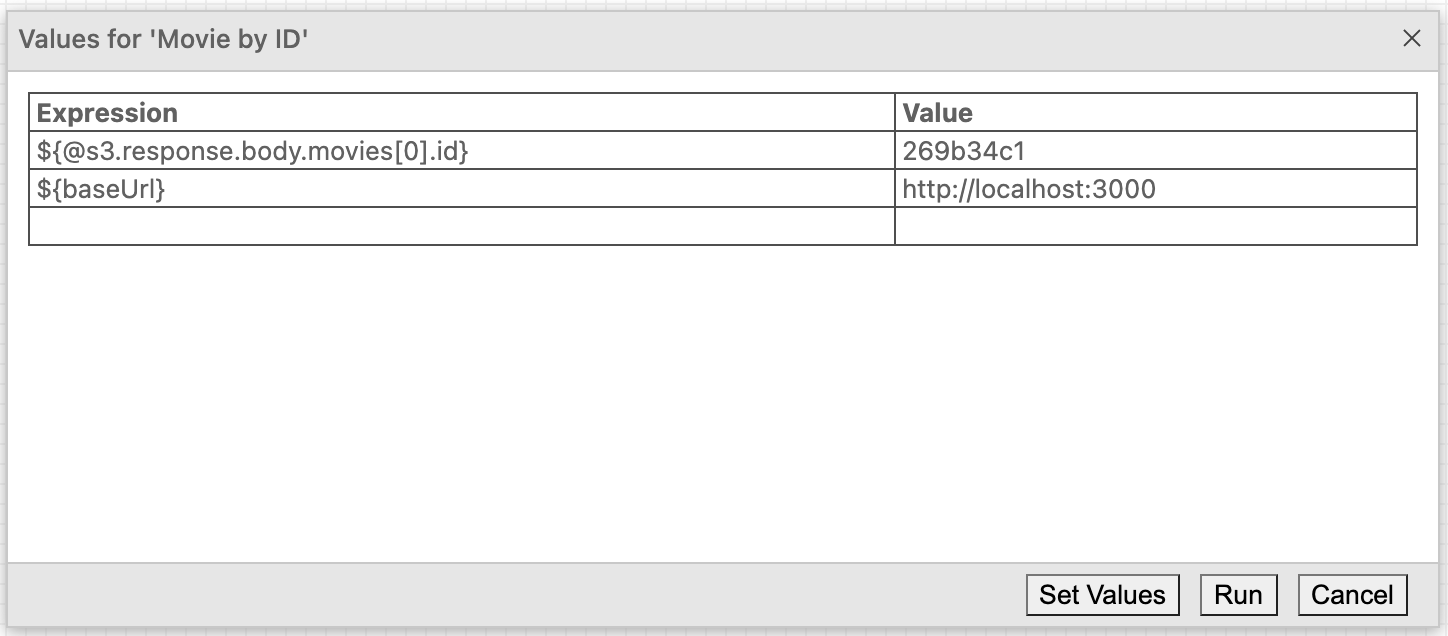
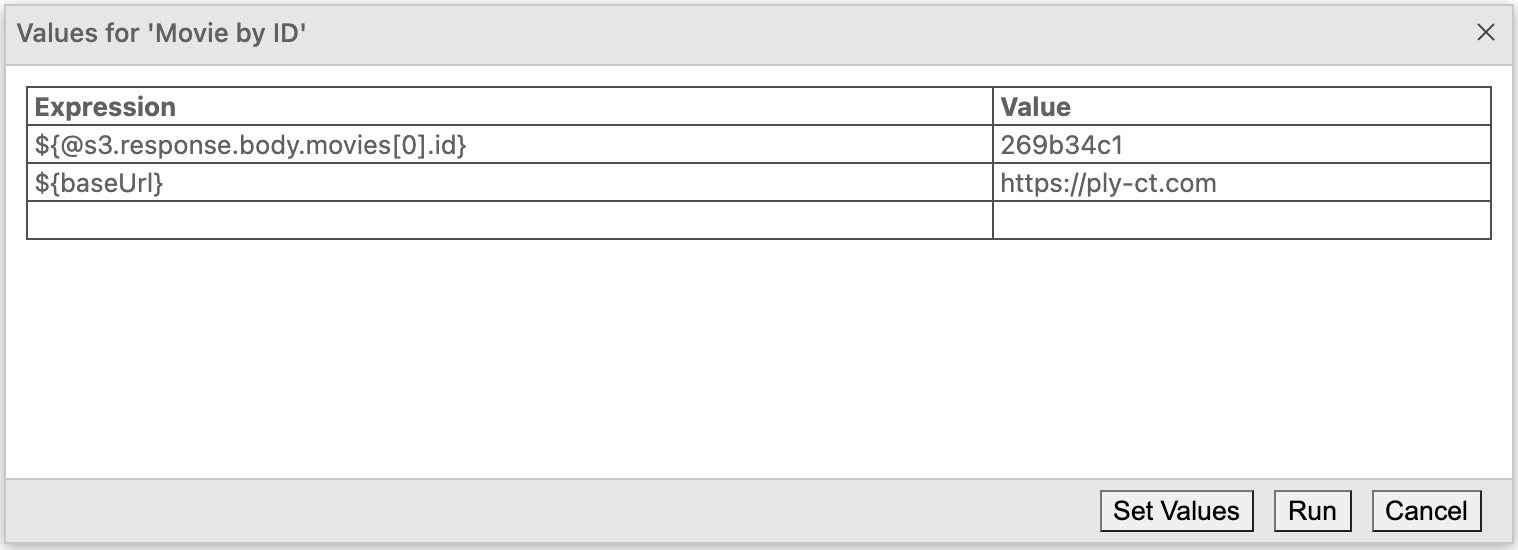
fix localhost screenshot

Changed region(s): [[0.0, 0.0, 1.0, 0.9891]]

diff --git a/docs/topics/quickstart.md b/docs/topics/quickstart.md
@@ -199,7 +199,7 @@ to test it without running the whole flow. Let's run the "Movie by ID" step that
 1. Right-click on "Movie by ID", and select Run.
 1. This time when you're prompted for values, you'll observe that `${@s3.response.body.movies[0].id}` is required,
    and that Ply remembers the value from our previous flow run. 
-   <img src="../img/movie-by-id-values.png" alt="Values prompt" width="724px">  
+   <img src="../img/movie-by-id-values.png" alt="Values prompt" width="759px">  
 1. Double-click "Movie by ID" to review its request and response to make sure they're as expected.
    <img src="../img/movie-by-id-response.png" alt="Values prompt" width="760px">  
 
